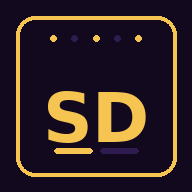
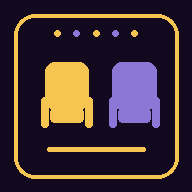
Renombrar a Dos Butacas

diff --git a/index.html b/index.html
@@ -3,7 +3,7 @@
   <head>
     <meta charset="UTF-8" />
     <meta name="viewport" content="width=device-width, initial-scale=1.0, viewport-fit=cover" />
-    <title>Sesión Doble</title>
+    <title>Dos Butacas</title>
     <meta name="description" content="Dos listas, un plan. Elegid juntos qué ver esta noche." />
 
     <link rel="manifest" href="/manifest.webmanifest" />
@@ -12,7 +12,7 @@
     <!-- iPhone: sin barra del navegador y con icono propio -->
     <meta name="apple-mobile-web-app-capable" content="yes" />
     <meta name="apple-mobile-web-app-status-bar-style" content="black-translucent" />
-    <meta name="apple-mobile-web-app-title" content="Sesión Doble" />
+    <meta name="apple-mobile-web-app-title" content="Dos Butacas" />
     <link rel="apple-touch-icon" href="/icono-192.png" />
     <link rel="icon" type="image/png" href="/icono-192.png" />
   </head>

diff --git a/src/App.jsx b/src/App.jsx
@@ -41,7 +41,7 @@ function Marco({ children, sub }) {
     <div className="app">
       <header>
         <div className="bombillas"><i /><i /><i /><i /><i /><i /><i /></div>
-        <h1>SESIÓN DOBLE</h1>
+        <h1>DOS BUTACAS</h1>
         {sub && <div className="sub">{sub}</div>}
       </header>
       <main>{children}</main>
@@ -260,7 +260,7 @@ function Principal({ sesion, pareja }) {
     <div className="app">
       <header>
         <div className="bombillas"><i /><i /><i /><i /><i /><i /><i /></div>
-        <h1>SESIÓN DOBLE</h1>
+        <h1>DOS BUTACAS</h1>
         <div className="sub">Código {pareja.codigo}</div>
       </header>
       <main key={vista} className="entra">
